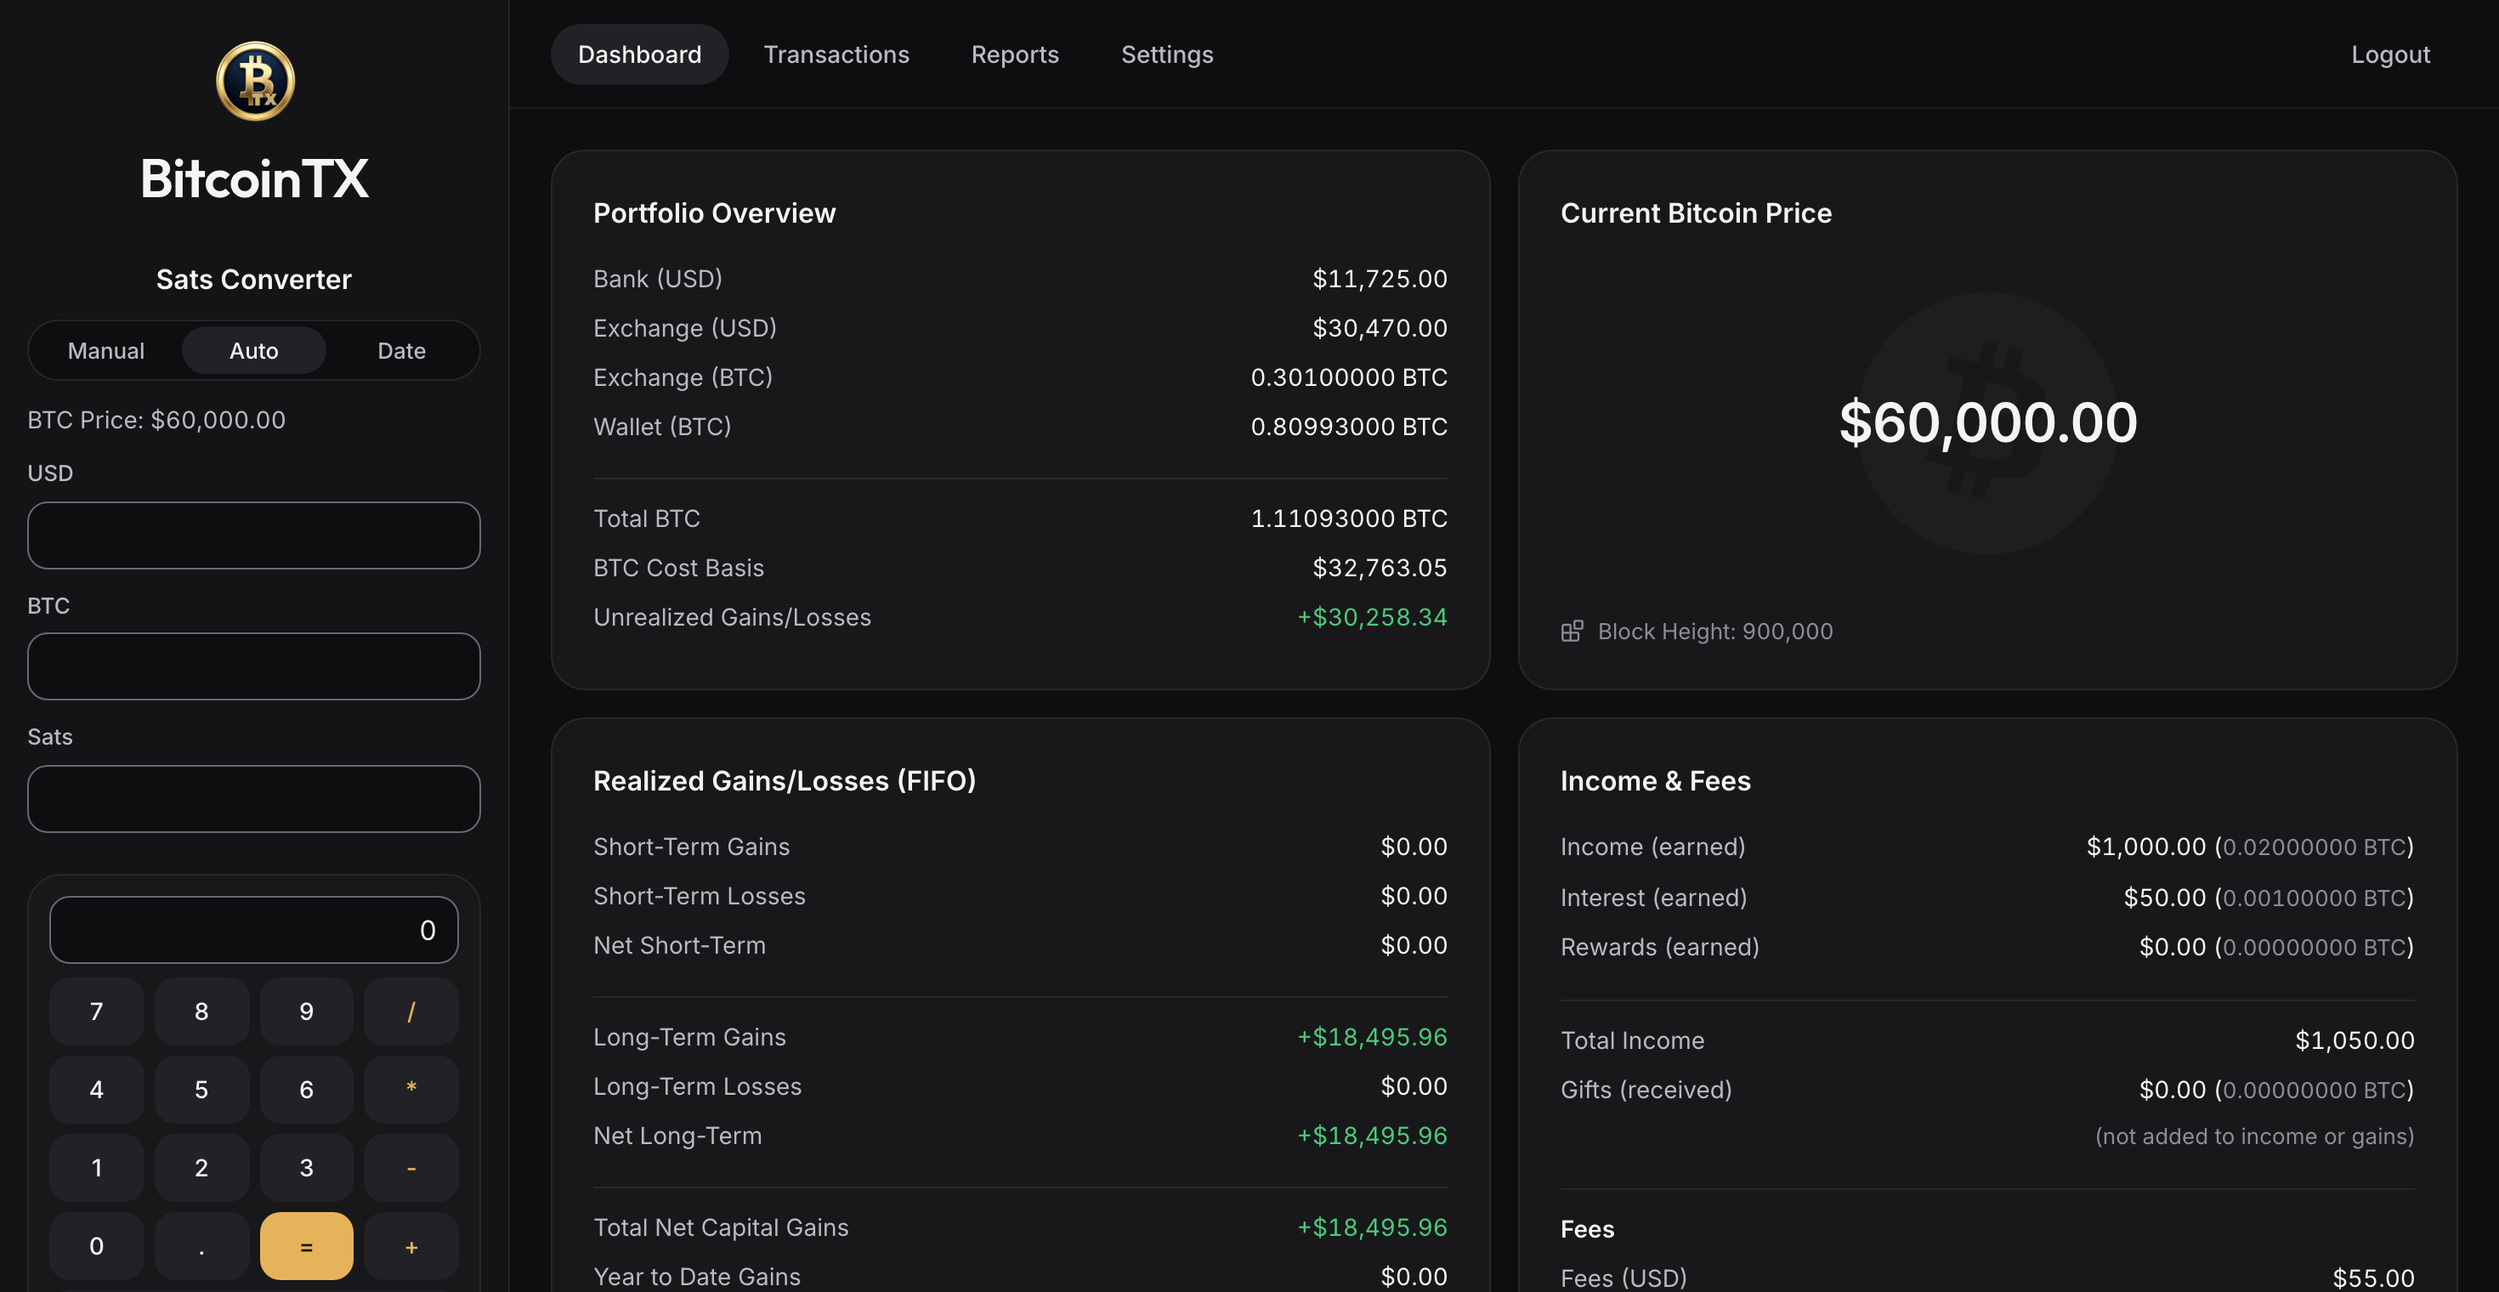
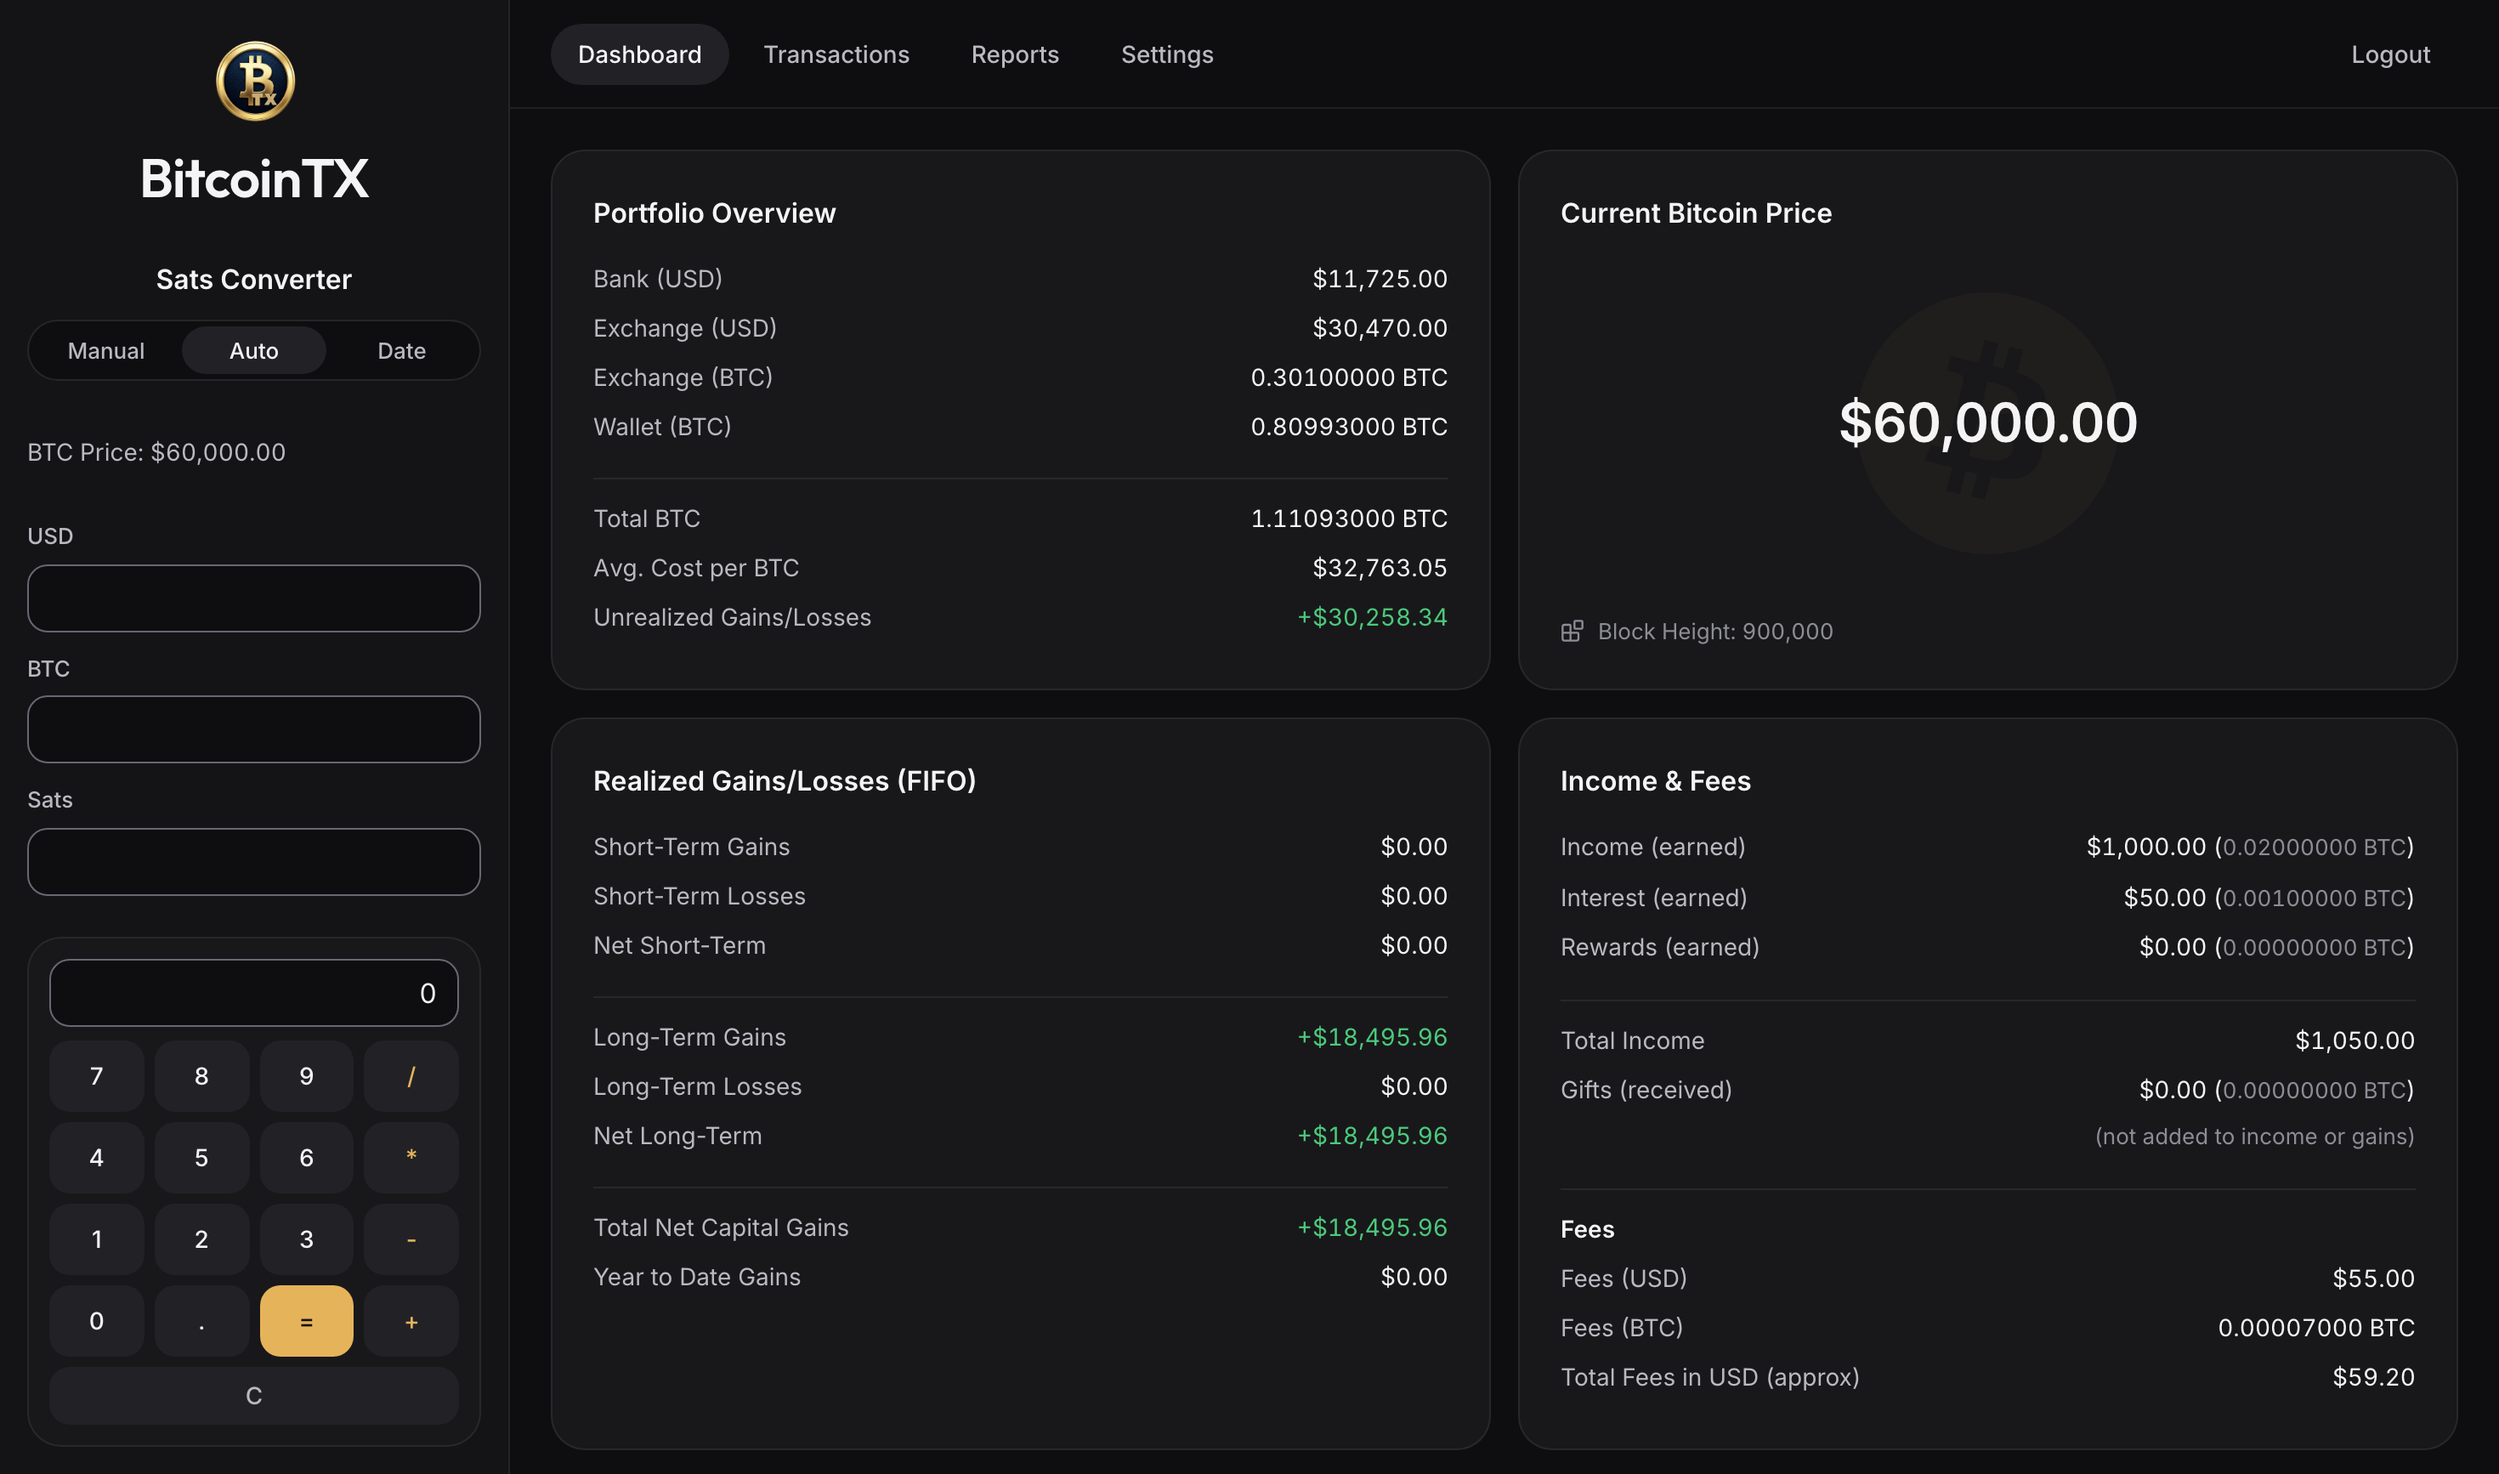
Screenshots of 1.2.2 for the README and landing page
Same demo ledger as before, e2e server (stubbed $60,000 price), 1470 wide
at 2x; now 867 tall so the whole taller calculator shows, C included, level
with the dashboard's cards. Reports with 2025 picked. Settings from a
throwaway Mac-mode server (fake HOME): the setup prompt shows today's
uvx btctx-mcp==1.2.2 instead of 1.1.0's git install.

diff --git a/docs/CHANGELOG.md b/docs/CHANGELOG.md
@@ -4,6 +4,11 @@ All notable changes to BitcoinTX are documented in this file.
 
 ## [Unreleased]
 
+### Documentation
+- **Screenshots of 1.2.2** in the README and on the landing page (same demo
+  ledger): the whole taller calculator, 2025 picked in Reports, and the
+  AI setup prompt with today's `uvx btctx-mcp==1.2.2` instead of 1.1.0's.
+
 ### Development
 - **To-dos are checkboxes.** Specific to-dos live in `docs/temp/TODO.md`,
   the StartOS package's in `startos/TODO.md` (Start9's standard file, so it
